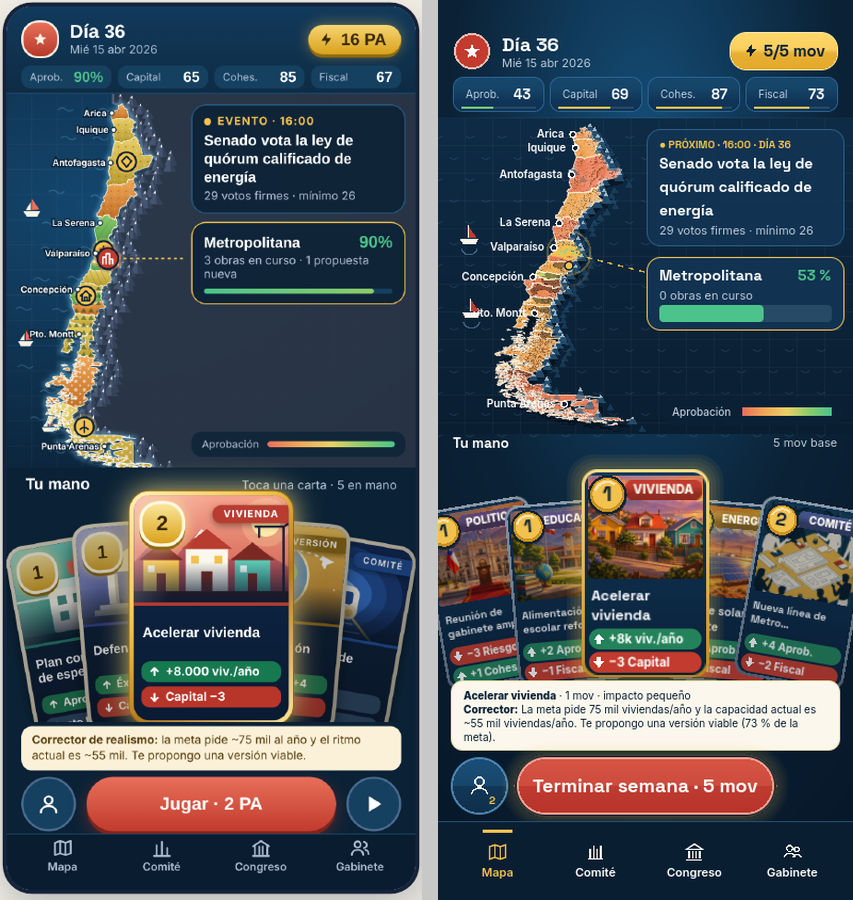
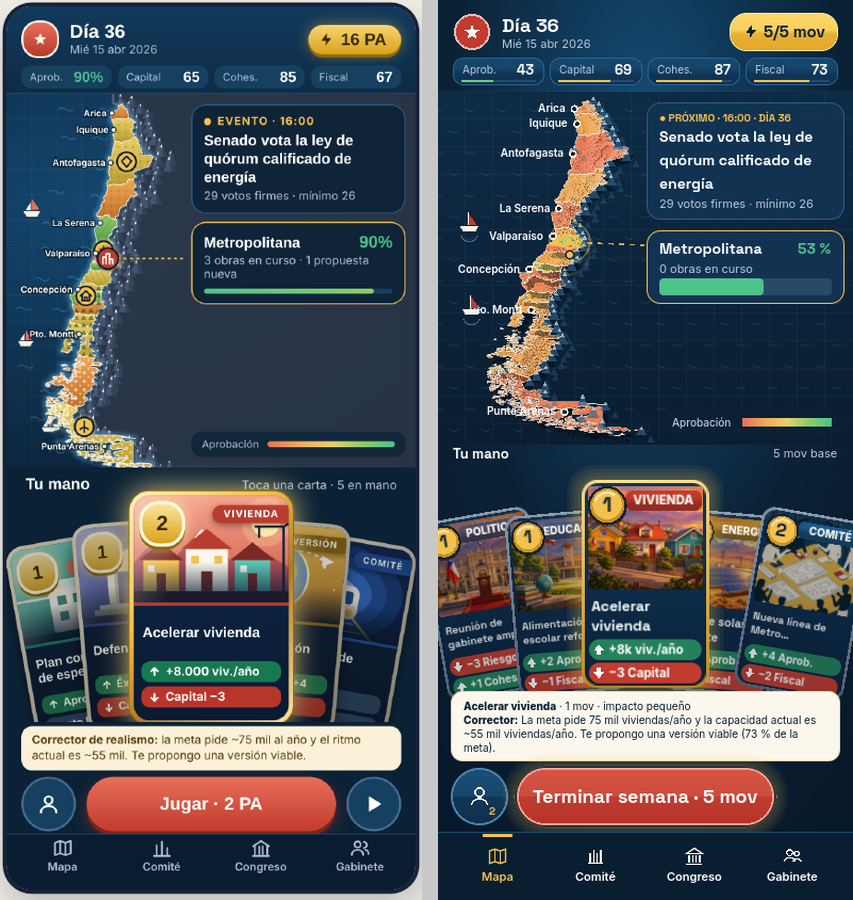
Votación más cerca de la maqueta: arriba por zona segura, Senado compacto y sello espaciado
El contenido de la votación empieza según la zona segura del teléfono
(antes 46 px fijos), el hemiciclo del Senado es más compacto (radio 0,41
del ancho, alto 205) y el sello pasa a 32 pt con letras separadas y en
Space Grotesk 700 como en la maqueta. Lados a lados del día y de la
votación actualizados.

Claude-Session: https://claude.ai/code/session_015HWWmkqdrhteNyoiHrGmho

Changed region(s): [[0.4877, 0.0, 1.0, 0.9956], [0.8839, 0.9333, 0.9754, 0.9956]]

diff --git a/docs/DIFERENCIAS_MAQUETA.md b/docs/DIFERENCIAS_MAQUETA.md
@@ -191,4 +191,6 @@ La diferencia numérica (`docs/comparacion/DIFERENCIA_MAQUETA.md`) mostraba que 
 
 Píxeles distintos del día frente a la maqueta: de 43,1 % a 39,2 %. El mapa gana unos 30 px de alto.
 
+En la votación: el contenido sube con la zona segura, el hemiciclo del Senado se compacta (radio 0,41 del ancho en vez de 0,46, alto 205 en vez de 230) y el sello «APROBADA / RECHAZADA» pasa a 32 pt con letras separadas, como en la maqueta. Píxeles distintos: de 22,5 % a 22,0 %.
+
 Reglas: todo el movimiento respeta Ajustes › «Animaciones y movimiento» y se apaga en modo headless, así que las pruebas miden siempre el estado final. El azar de las partículas es solo visual y no toca la semilla de la partida. Prueba propia: `tests/test_movimiento.gd`.

diff --git a/docs/comparacion/DIFERENCIA_MAQUETA.md b/docs/comparacion/DIFERENCIA_MAQUETA.md
@@ -10,5 +10,5 @@ comparar pantallas entre sí y ver si un cambio acerca o aleja. Imágenes: `dif_
 | dia | 39.2 % | 27.7 | inferior centro (y ≈ 640–672 px) | 76 |
 | nacion | 29.2 % | 25.0 | superior centro (y ≈ 96–128 px) | 104 |
 | urbano | 23.0 % | 18.5 | superior centro (y ≈ 192–224 px) | 83 |
-| votacion | 22.5 % | 19.4 | inferior izquierda (y ≈ 736–768 px) | 68 |
+| votacion | 22.0 % | 19.0 | inferior izquierda (y ≈ 736–768 px) | 68 |
 | hito | 19.1 % | 15.1 | media derecha (y ≈ 512–544 px) | 83 |
